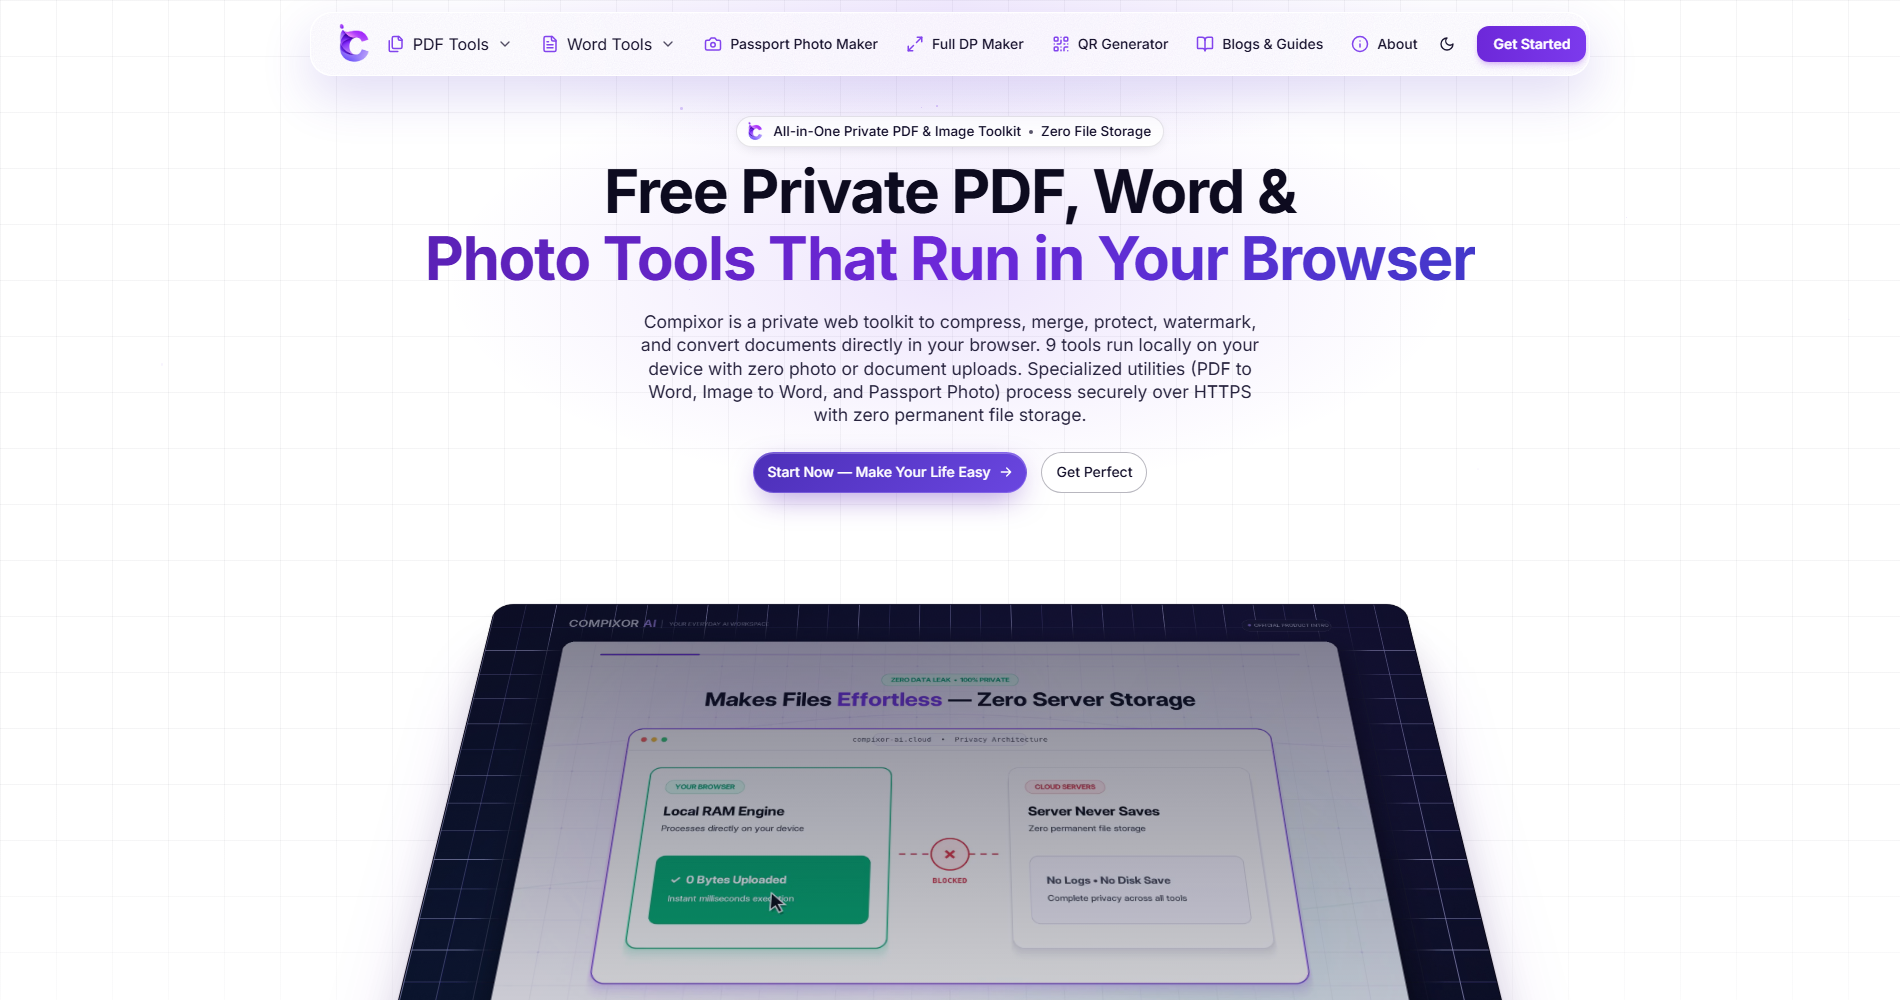
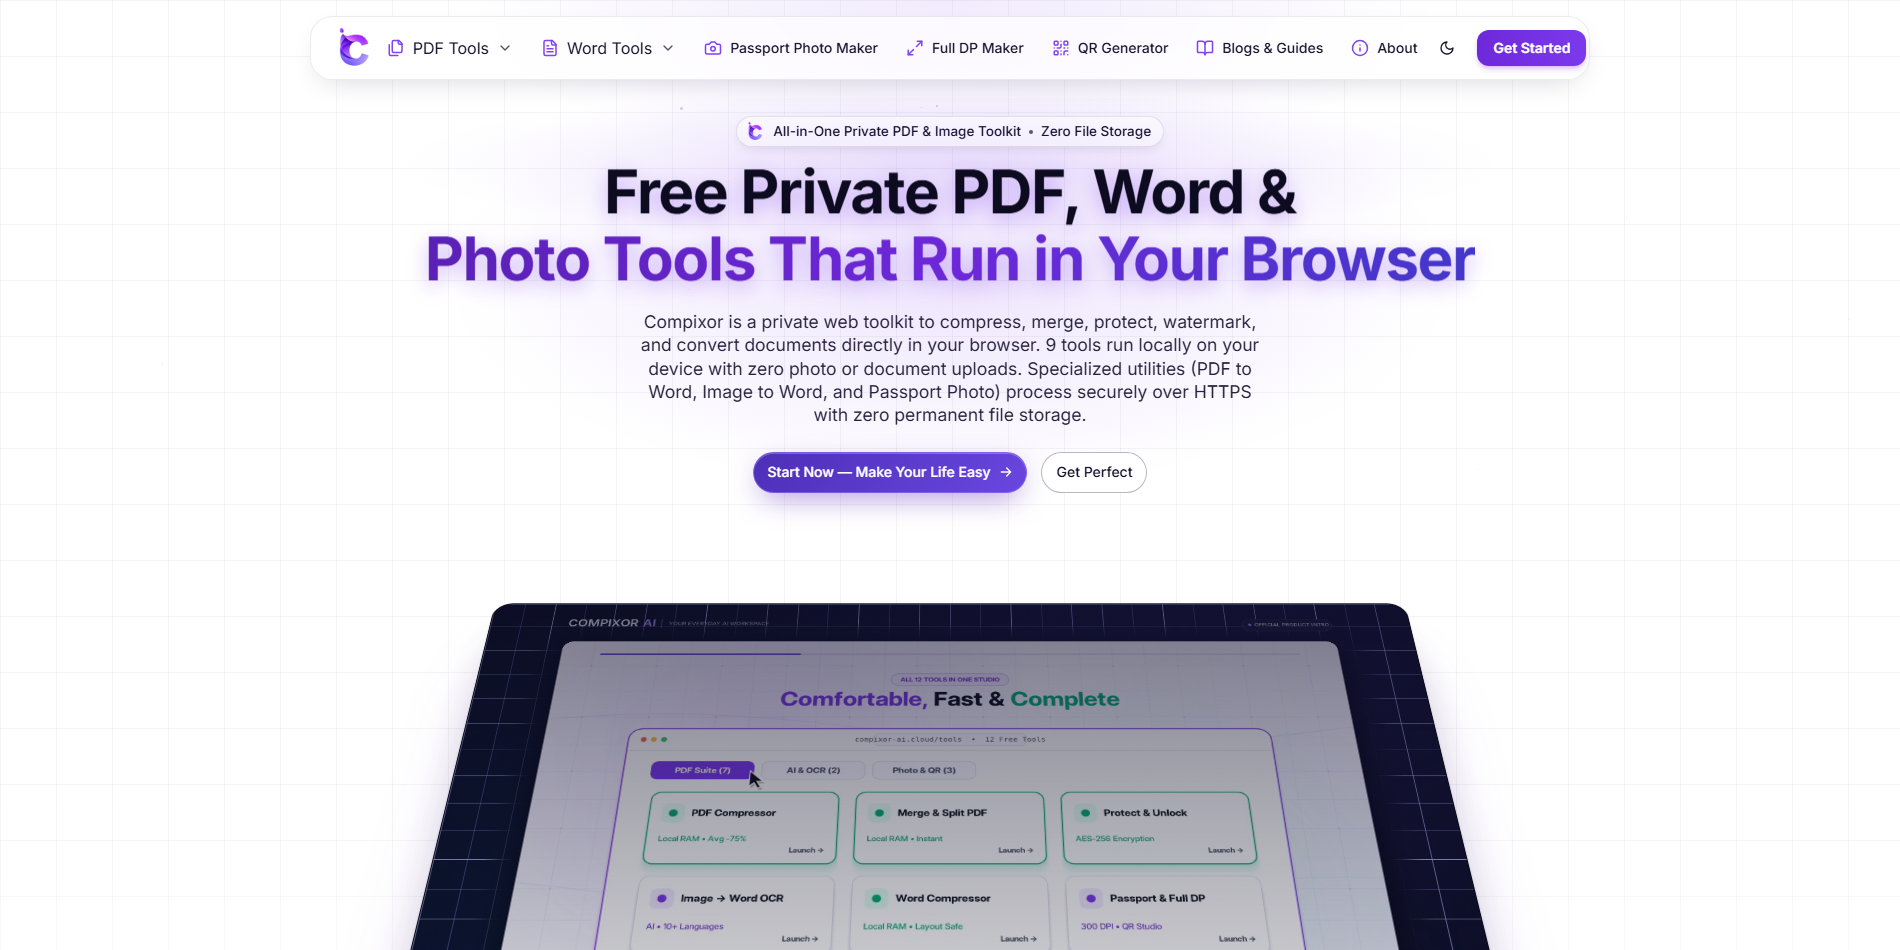
fix: h1 scroll drop shadow visible

diff --git a/src/components/landing/HeroTitle.tsx b/src/components/landing/HeroTitle.tsx
@@ -1,0 +1,44 @@
+"use client";
+import { useEffect, useState } from "react";
+import {
+  motion, useScroll, useSpring, useTransform,
+  useMotionTemplate, useReducedMotion,
+} from "framer-motion";
+
+const RANGE = 500; // 540 nahi, jaldi dikhe
+
+export default function HeroTitle({
+  className, children,
+}: { className?: string; children: React.ReactNode }) {
+  const reduce = useReducedMotion();
+  const [small, setSmall] = useState(false);
+  useEffect(() => {
+    const mq = window.matchMedia("(max-width:768px)");
+    const on = () => setSmall(mq.matches);
+    on();
+    mq.addEventListener("change", on);
+    return () => mq.removeEventListener("change", on);
+  }, []);
+
+  const { scrollY } = useScroll();
+  const progress = useTransform(scrollY, [0, RANGE], [0, 1]);
+  const smooth = useSpring(progress, { stiffness: 100, damping: 30, mass: 0.5 });
+
+  const y = useTransform(smooth, [0, 1], [0, 40]);
+  const shadowY = useTransform(smooth, [0, 1], [6, 24]);
+  const shadowBlur = useTransform(smooth, [0, 1], [10, small ? 16 : 28]);
+  const shadowAlpha = useTransform(smooth, [0, 1], [0.35, 0.7]);
+  const filter = useMotionTemplate`drop-shadow(0px ${shadowY}px ${shadowBlur}px rgba(124,58,237,${shadowAlpha}))`;
+
+  // reduced-motion: movement band, par static shadow dikhe
+  const style = reduce
+    ? { filter: "drop-shadow(0px 12px 18px rgba(124,58,237,.5))" }
+    : { y, filter, willChange: "transform, filter" };
+
+  return (
+    <div className="cx-title">
+      <span className="cx-title__glow" aria-hidden="true" />
+      <motion.h1 id="cx-hero-title" className={className} style={style}>{children}</motion.h1>
+    </div>
+  );
+}

diff --git a/src/components/landing/Hero.tsx b/src/components/landing/Hero.tsx
@@ -2,7 +2,7 @@ import Image from "next/image";
 import Link from "next/link";
 import Stars from "./Stars";
 import TabletFlatten from "./TabletFlatten";
-import HeroFade from "./HeroFade";
+import HeroTitle from "./HeroTitle";
 import "./hero.css";
 
 export default function Hero() {
@@ -18,16 +18,16 @@ export default function Hero() {
         </div>
         <div className="cx-hero__ring" aria-hidden="true" />
 
-        <HeroFade className="cx-hero__inner">
+        <div className="cx-hero__inner">
           <div className="cx-badge cx-rise">
             <Image src="/brand/logo-c.png" alt="" width={22} height={21} />
             All-in-One Private PDF &amp; Image Toolkit <i aria-hidden="true" /> Zero File Storage
           </div>
 
-          <h1 id="cx-hero-title" className="cx-h1 cx-rise" style={{ animationDelay: "80ms" }}>
+          <HeroTitle className="cx-h1 cx-rise">
             <span>Free Private PDF, Word &amp;</span>{" "}
             <span className="cx-grad">Photo Tools That Run in Your Browser</span>
-          </h1>
+          </HeroTitle>
 
           <p className="cx-sub cx-rise" style={{ animationDelay: "160ms" }}>
             Compixor is a private web toolkit to compress, merge, protect, watermark, and convert
@@ -46,7 +46,7 @@ export default function Hero() {
             </Link>
             <Link href="#tools" className="cx-hbtn cx-hbtn--ghost">Get Perfect</Link>
           </div>
-        </HeroFade>
+        </div>
 
         <div className="cx-stage-crop">
           <div className="cx-stage">

diff --git a/src/components/landing/hero.css b/src/components/landing/hero.css
@@ -342,3 +342,13 @@ html.light .cx-stars i:nth-child(n+13){
 html.light .cx-stars i{
   opacity:.25 !important;
 }
+
+/* Hero title drop shadow & glow */
+.cx-title{position:relative;isolation:isolate;overflow:visible}
+.cx-title__glow{position:absolute;inset:-60px -12% -20px;z-index:-1;pointer-events:none;
+  background:radial-gradient(ellipse 60% 50% at 50% 30%,rgba(124,58,237,.35),transparent 70%)}
+html.light .cx-title__glow{
+  background:radial-gradient(ellipse 60% 50% at 50% 30%,rgba(124,58,237,.12),transparent 70%)}
+.cx-hero{overflow-x:clip;overflow-y:visible}
+.cx-hero__inner{overflow:visible}
+

diff --git a/src/styles/hero-card.css b/src/styles/hero-card.css
@@ -618,3 +618,13 @@ html.dark .cnav-sub-item,
   color: rgb(200,203,224);
 }
 
+/* Hero title drop shadow & glow */
+.cx-title{position:relative;isolation:isolate;overflow:visible}
+.cx-title__glow{position:absolute;inset:-60px -12% -20px;z-index:-1;pointer-events:none;
+  background:radial-gradient(ellipse 60% 50% at 50% 30%,rgba(124,58,237,.35),transparent 70%)}
+html.light .cx-title__glow{
+  background:radial-gradient(ellipse 60% 50% at 50% 30%,rgba(124,58,237,.12),transparent 70%)}
+.cx-hero{overflow-x:clip;overflow-y:visible}
+.cx-hero__inner{overflow:visible}
+
+
